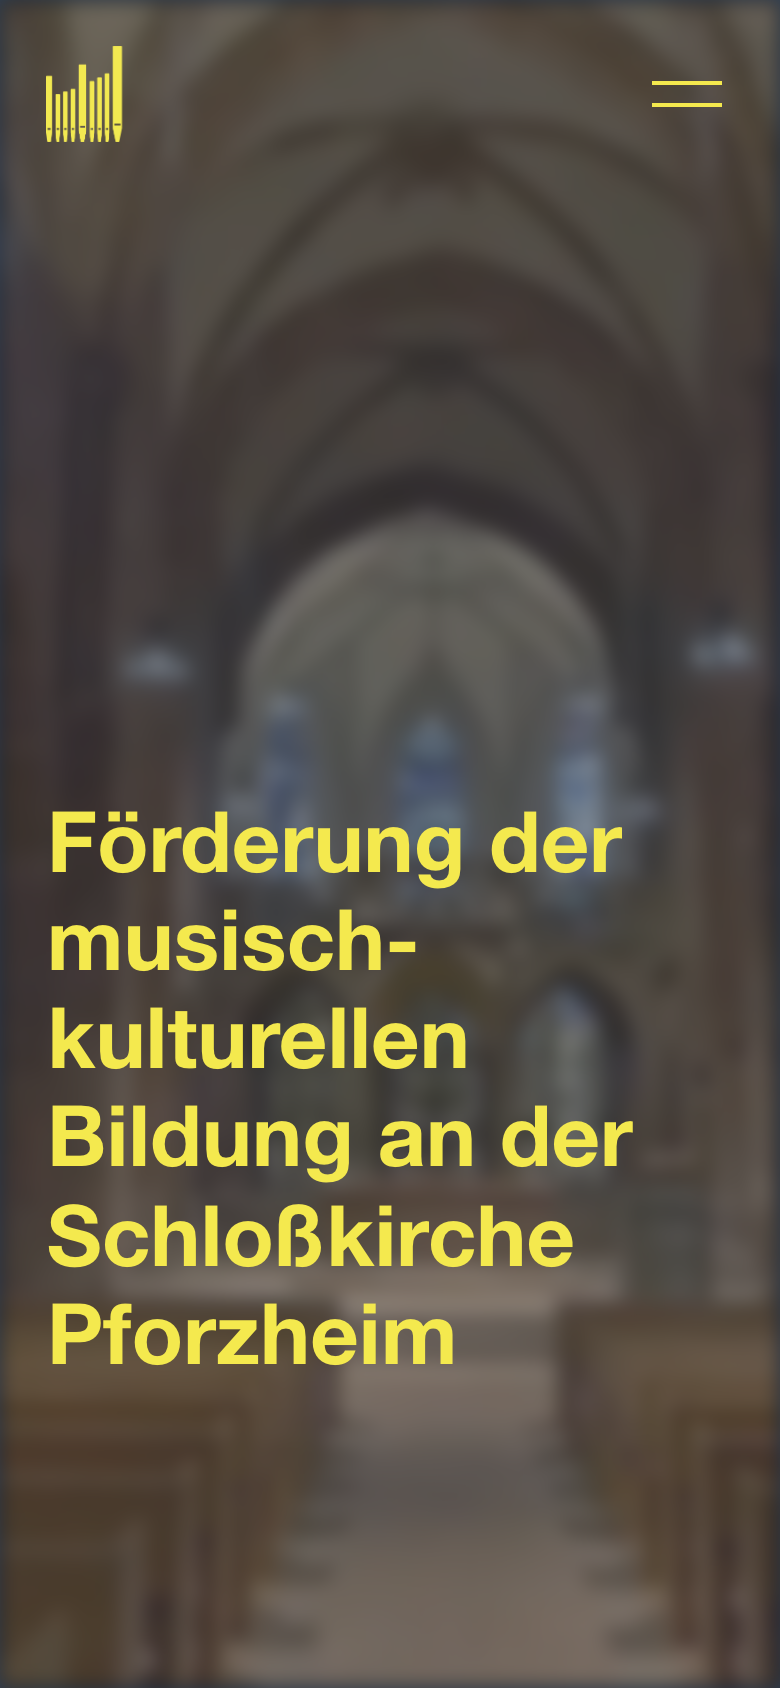
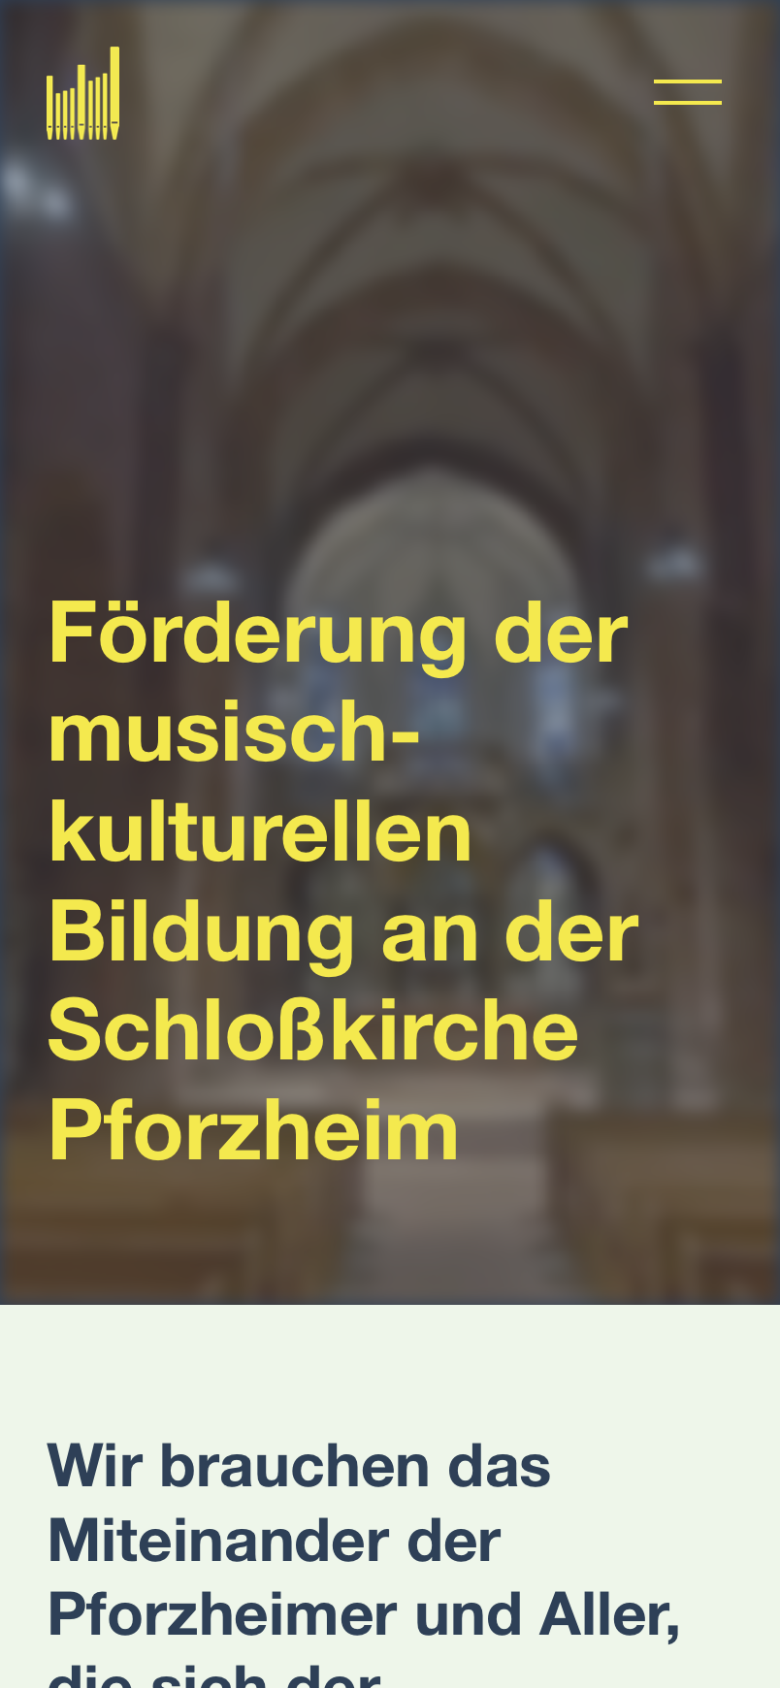
Pop Drop as a project after Tommy Pickett; Schlosskirche slides trimmed
Pop Drop: the App Store header at 16:10 and the five themes, a short text and
an App Store link (the drawer now shows it without a website). Schlosskirche:
updated shots, no events slide, the photo gallery desktop only.

diff --git a/src/data/projects.ts b/src/data/projects.ts
@@ -89,15 +89,6 @@ export const projects: Project[] = [
     services: ["Brand", "Web design", "Development", "Content management", "Online shop"],
   },
   {
-    // Coming soon: no image yet, so no hover preview and no hero card. No summary for now
-    // (Robin, 2026-11-16).
-    name: "Pop Drop",
-    tags: "Coming soon",
-    soon: true,
-    summary: [],
-    services: ["App design", "iOS development"],
-  },
-  {
     name: "CrissCross",
     tags: "Web, App",
     href: "https://www.crisscrosswords.app",
@@ -210,6 +201,24 @@ export const projects: Project[] = [
     ],
   },
   {
+    name: "Pop Drop",
+    tags: "App",
+    // No country code, so it opens each visitor's own App Store. No website of its own.
+    appStore: "https://apps.apple.com/app/id6829979359",
+    // Made by scripts/cases/pop-drop-slides.py: the App Store header at 16:10 in Figma
+    // "Pop Drop" (frame 47:3585), and the game in its five light themes. Composed boards,
+    // edge to edge (Robin, 2026-11-22).
+    preview: "work/pop-drop-header.png",
+    gallery: ["work/pop-drop-themes.png"],
+    galleryBleed: "all",
+    accent: { onDark: "#f8d81c", onLight: "#8e4740" },
+    summary: [
+      "Pop Drop is a calm merge game for iPhone. Slide to aim, tap to drop, and watch equal balls merge into bigger ones before the play area fills up.",
+      "Soft balls wobble as they land and merge with a pop, every merge plays a note that climbs the scale, and there are five colour themes to play in. I designed and built it, from the first sketches to the App Store.",
+    ],
+    services: ["App design", "iOS development", "App Store listing"],
+  },
+  {
     name: "Event Sitters",
     tags: "Branding, Web",
     href: "https://www.eventsitters.nz",
@@ -267,23 +276,20 @@ export const projects: Project[] = [
     tags: "Web",
     href: "https://www.foerderverein-schlosskirche.de",
     preview: "work/schlosskirche-hero.png",
-    // Second: an event page (the organ festival with Iveta Apkalna, captured 2026-11-22). Fourth: three A1 posters from
-    // the "Kirche anders" services, 2017, edge to edge (scripts/cases/schlosskirche-posters.py),
-    // with no phone over them.
+    // Second: an event page (the organ festival with Iveta Apkalna, captured 2026-11-22). Third:
+    // three A1 posters from the "Kirche anders" services, 2017, edge to edge
+    // (scripts/cases/schlosskirche-posters.py). Phones only on the first two; the last slide, the
+    // photo gallery, is desktop only (Robin, 2026-11-22).
     gallery: [
       "work/schlosskirche-organ-festival.png",
-      "work/schlosskirche-section-1.png",
       "work/schlosskirche-posters.png",
       "work/schlosskirche-section-3.png",
     ],
     galleryBleed: true,
-    galleryFramed: ["work/schlosskirche-organ-festival.png", "work/schlosskirche-section-1.png", "work/schlosskirche-section-3.png"],
+    galleryFramed: ["work/schlosskirche-organ-festival.png", "work/schlosskirche-section-3.png"],
     galleryMobile: [
       "work/schlosskirche-mobile-1.png",
       "work/schlosskirche-organ-festival-mobile.png",
-      "work/schlosskirche-mobile-2.png",
-      undefined,
-      "work/schlosskirche-mobile-4.png",
     ],
     // Robin's picks: the site's own yellow on the dark section (light OS mode), deep blue on white.
     accent: { onDark: "#f8e850", onLight: "#2e4057" },

diff --git a/src/pages/llms.txt.ts b/src/pages/llms.txt.ts
@@ -31,7 +31,7 @@ export const GET: APIRoute = () => {
     ...projects.map((p) => {
       if (p.soon) return `- ${p.name}: coming soon`;
       // The project's page here, then its own site where there is one.
-      const link = p.href ? ` (live: ${new URL(p.href, site).href})` : "";
+      const link = p.href ? ` (live: ${new URL(p.href, site).href})` : p.appStore ? ` (App Store: ${p.appStore})` : "";
       return `- [${p.name}](${site}/work/${projectId(p)}): ${p.tags}${link}`;
     }),
     "",

diff --git a/scripts/cases/pop-drop-slides.py b/scripts/cases/pop-drop-slides.py
@@ -1,0 +1,83 @@
+# The Pop Drop project's two images (src/assets/work/pop-drop-*.png, 2880x1800 each):
+# - pop-drop-header.png: the App Store header at 16:10 in Figma "Pop Drop" (page "App Store",
+#   frame 47:3585, 3840x2400): Robin's arrangement, balls up both sides of the title. Scaled
+#   down to 2880x1800.
+# - pop-drop-themes.png: the game in its five light themes (Playground, Sunset, Autumn, Picnic,
+#   Beach), as phones of one size in a row, nudged down and up in turn, on the header's warm grey.
+#   Same layout as faster-themes.py.
+# The store screenshots and the iPhone Duo mock-ups stay out (Robin, 2026-11-22).
+# Sources: the header export in 01_Website/03_Working files/pop-drop/ and the App Store
+# captures in ~/Projects/Pop Drop/pop-drop-app/docs/screenshots/20-app-store/ (1206x2622).
+# Usage: python3 scripts/cases/pop-drop-slides.py   (from rco-website/, needs Pillow)
+from pathlib import Path
+from PIL import Image, ImageDraw, ImageFilter
+
+ROOT = Path(__file__).resolve().parents[2]
+FIGMA = ROOT.parent / "03_Working files/pop-drop"
+SHOTS = Path.home() / "Projects/Pop Drop/pop-drop-app/docs/screenshots/20-app-store"
+OUT = ROOT / "src/assets/work"
+W, H = 2880, 1800
+SS = 3  # shapes drawn at 3x for smooth edges
+
+
+def cover(img):
+    """Scale to fill W x H and crop the middle."""
+    k = max(W / img.width, H / img.height)
+    img = img.resize((round(img.width * k), round(img.height * k)), Image.LANCZOS)
+    x, y = (img.width - W) // 2, (img.height - H) // 2
+    return img.crop((x, y, x + W, y + H))
+
+
+# Header
+header = Image.open(FIGMA / "figma-header-16x10-47-3585.png").convert("RGB")
+BG = header.getpixel((header.width // 2, 20))  # the warm grey behind the balls
+cover(header).save(OUT / "pop-drop-header.png", optimize=True)
+
+# Themes
+THEMES = ["1-playground-light", "2-sunset-light", "3-autumn-light", "4-picnic-light", "5-beach-light"]
+PHONE_H, GAP, STAGGER = 860, 90, 110  # phone height; gap between phones, across and down
+
+
+def phone(name, h):
+    """The screen inside a thin black bezel, both rounded, with a Dynamic Island drawn in (the
+    simulator captures have none), as in faster-themes.py."""
+    shot = Image.open(SHOTS / f"{name}.png").convert("RGB")
+    bezel = round(h * 0.022)
+    sh = h - 2 * bezel
+    sw = round(shot.width * sh / shot.height)
+    w = sw + 2 * bezel
+    # Concentric corners: the outer radius is the screen's plus the bezel, so the bezel keeps
+    # its width around the corners.
+    r_in = round(sw * 0.14)
+    r_out = r_in + bezel
+    body = Image.new("RGBA", (w * SS, h * SS), (0, 0, 0, 0))
+    ImageDraw.Draw(body).rounded_rectangle((0, 0, w * SS - 1, h * SS - 1), r_out * SS, fill=(18, 18, 18, 255))
+    body = body.resize((w, h), Image.LANCZOS)
+    mask = Image.new("L", (sw * SS, sh * SS), 0)
+    ImageDraw.Draw(mask).rounded_rectangle((0, 0, sw * SS - 1, sh * SS - 1), r_in * SS, fill=255)
+    body.paste(shot.resize((sw, sh), Image.LANCZOS), (bezel, bezel), mask.resize((sw, sh), Image.LANCZOS))
+    # Dynamic Island: 125x37 pt, 11 pt from the top, on a 402 pt wide screen.
+    iw, ih, it = sw * 125 / 402, sw * 37 / 402, sw * 11 / 402
+    pill = Image.new("L", (round(iw * SS), round(ih * SS)), 0)
+    ImageDraw.Draw(pill).rounded_rectangle((0, 0, pill.width - 1, pill.height - 1), pill.height // 2, fill=255)
+    pill = pill.resize((round(iw), round(ih)), Image.LANCZOS)
+    body.paste((0, 0, 0, 255), (round(bezel + (sw - iw) / 2), round(bezel + it)), pill)
+    return body
+
+
+phones = [phone(name, PHONE_H) for name in THEMES]
+pw = phones[0].width
+left = (W - (len(THEMES) * pw + (len(THEMES) - 1) * GAP)) // 2
+canvas = Image.new("RGB", (W, H), BG)
+shadow = Image.new("L", (W, H), 0)
+spots = []
+for col, p in enumerate(phones):
+    x = left + col * (pw + GAP)
+    y = (H - PHONE_H) // 2 + (STAGGER if col % 2 == 0 else -STAGGER)
+    shadow.paste(p.getchannel("A").point(lambda v: v * 0.22), (x, y + 24), p.getchannel("A"))
+    spots.append((p, x, y))
+canvas.paste((0, 0, 0), (0, 0), shadow.filter(ImageFilter.GaussianBlur(40)))
+for p, x, y in spots:
+    canvas.paste(p, (x, y), p)
+canvas.save(OUT / "pop-drop-themes.png", optimize=True)
+print("background", BG)
